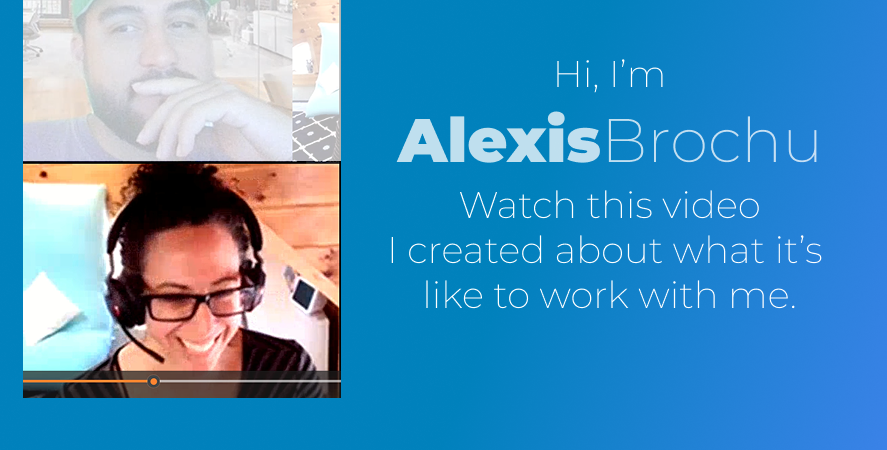
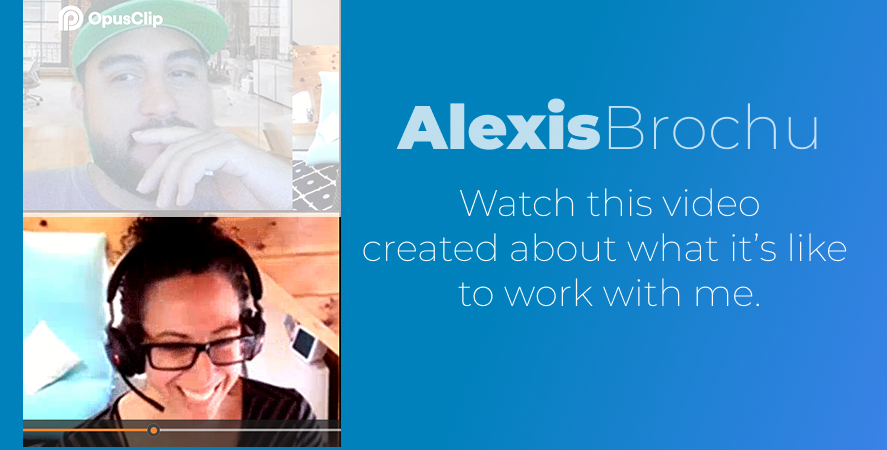
Restored to 'f87fe91c7decf4e3d8fe6940b19f09306d769e2f'
Replit-Restored-To: f87fe91c7decf4e3d8fe6940b19f09306d769e2f

diff --git a/client/src/components/hero-section.tsx b/client/src/components/hero-section.tsx
@@ -200,13 +200,7 @@ export default function HeroSection({ onOpenAwardModal }: HeroSectionProps) {
               <div className="text-3xl md:text-4xl font-bold" style={{ color: '#F3E8B9' }}>$244M</div>
               <div className="text-sm text-white/70">Projects Closed</div>
             </div>
-            <div 
-              className="text-center cursor-pointer hover:opacity-80 transition-opacity" 
-              onClick={() => {
-                const event = new CustomEvent('openCaseStudy', { detail: 'pa-portal' });
-                window.dispatchEvent(event);
-              }}
-            >
+            <div className="text-center">
               <div className="text-3xl md:text-4xl font-bold" style={{ color: '#F3E8B9' }}>75%</div>
               <div className="text-sm text-white/70">Tickets Reduced</div>
             </div>
@@ -298,13 +292,7 @@ export default function HeroSection({ onOpenAwardModal }: HeroSectionProps) {
             <div className="text-2xl font-bold" style={{ color: '#F3E8B9' }}>$244M</div>
             <div className="text-xs text-white/70">Projects Closed</div>
           </div>
-          <div 
-            className="text-center cursor-pointer hover:opacity-80 transition-opacity" 
-            onClick={() => {
-              const event = new CustomEvent('openCaseStudy', { detail: 'pa-portal' });
-              window.dispatchEvent(event);
-            }}
-          >
+          <div className="text-center">
             <div className="text-2xl font-bold" style={{ color: '#F3E8B9' }}>75%</div>
             <div className="text-xs text-white/70">Tickets Reduced</div>
           </div>
